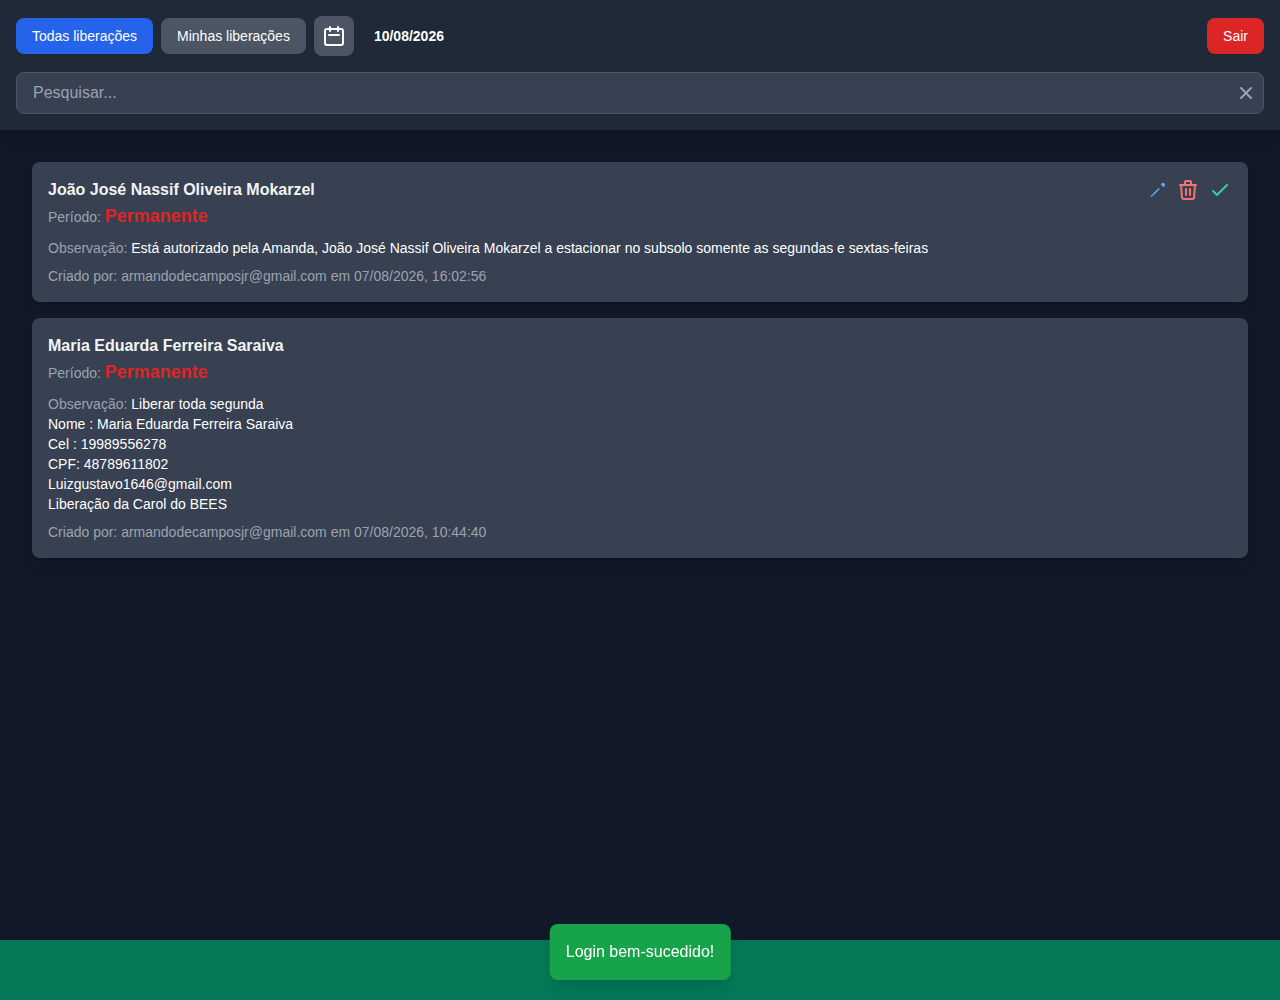
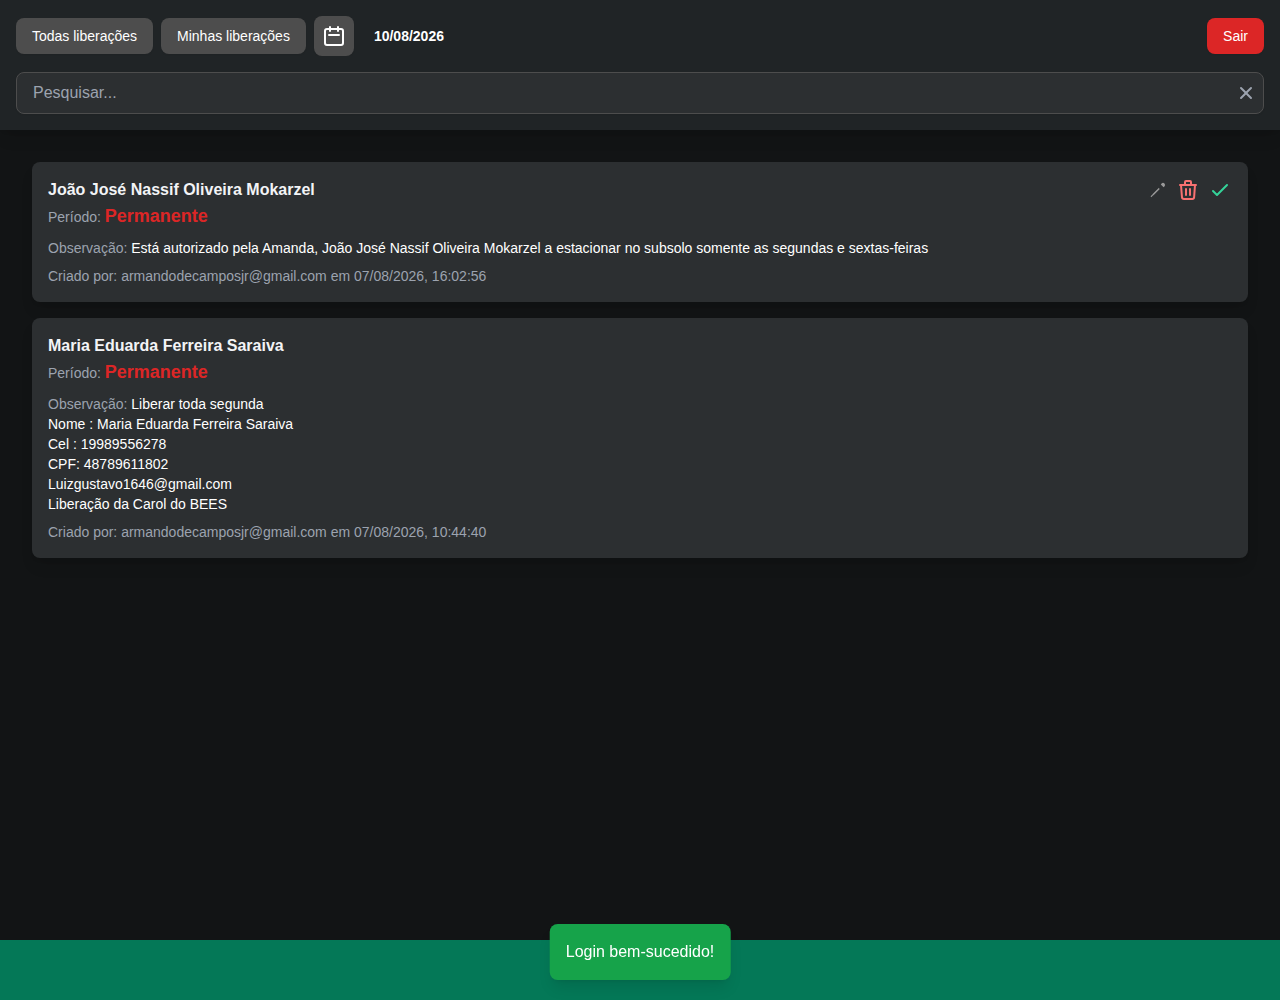
Update design blue colors to neutral gray shades based on screenshot palette

diff --git a/index.htm b/index.htm
@@ -6,6 +6,40 @@
     <title>Controle de Cadastros</title>
     <!-- Inclui a biblioteca Tailwind CSS para estilização -->
     <script src="https://cdn.tailwindcss.com"></script>
+    <script>
+        tailwind.config = {
+            theme: {
+                extend: {
+                    colors: {
+                        blue: {
+                            50: '#f5f5f5',
+                            100: '#e5e5e5',
+                            200: '#cccccc',
+                            300: '#b3b3b3',
+                            400: '#999999',
+                            500: '#666666',
+                            600: '#4d4d4d', // Based on image.png
+                            700: '#333333',
+                            800: '#202426', // Based on image.png
+                            900: '#1a1a1a',
+                        },
+                        gray: {
+                            50: '#f9fafb',
+                            100: '#f3f4f6',
+                            200: '#e5e7eb',
+                            300: '#d1d5db',
+                            400: '#9ca3af',
+                            500: '#6b7280',
+                            600: '#4d4d4d', // Based on image.png
+                            700: '#2c2f31',
+                            800: '#202426', // Based on image.png
+                            900: '#121415',
+                        }
+                    }
+                }
+            }
+        }
+    </script>
     <style>
         body {
             font-family: 'Inter', sans-serif;
